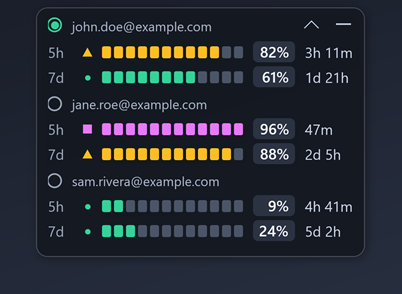
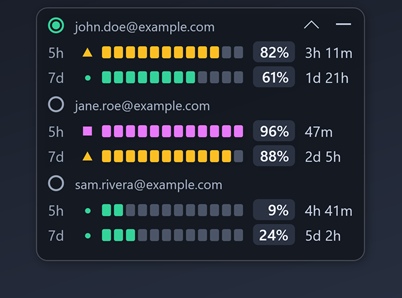
The radio was being clipped, not aliased: give the circle room in its box
The ring kept losing its left-hand side, through a font glyph and then through an
Ellipse, and each "fix" moved the symptom rather than removing it. Measuring the
pixels instead of looking at them: the ink ran from x+1.5 to x+16 where it should
have run x+0 to x+16. Not a shift - a missing slice.

Two causes, stacked. The control sits 0.75 of a physical pixel off the grid (padding,
a negative margin and an 11px line above it), so the circle was drawn three quarters
of a pixel right: one edge faded out, the other doubled. PointToScreen reports that
offset as zero, because it rounds to whole screen pixels, which is why the first
attempt at correcting it changed nothing. It is measured from inside the window now.

Correcting it then pushed the circle a fraction past its own bounds - and the Border
it sits in has a corner radius, so WPF clips the child to it. That clip took the
slice. The circle is now drawn inside a box a pixel larger on every side, so no
correction can ever reach the edge.

Measured, not eyeballed: the mid-line now reads 48 58 3 | 4 58 48 - a mirror - in a
16x16 box. Screenshots re-taken from this build.

diff --git a/src/ClaudeBar/MainWindow.xaml b/src/ClaudeBar/MainWindow.xaml
@@ -74,14 +74,12 @@
                 </Grid.ColumnDefinitions>
 
                 <!-- Radio: filled for the active account; click an empty one to switch.
-                     Two ellipses rather than a font glyph - shapes are anti-aliased, not
-                     hinted, so the ring stays a full circle wherever the pill lands. -->
+                     Drawn on the physical pixel grid by RadioDot - see the comment there for
+                     the two ways this circle previously lost its left-hand side. -->
                 <Border Grid.Column="0" Tag="radio" Style="{StaticResource Tap}"
                         Padding="3,1,6,1" Margin="-4,0,2,0" ToolTip="{Binding RadioTip}">
-                  <Grid Width="12" Height="12" VerticalAlignment="Center">
-                    <Ellipse Stroke="{Binding RadioStroke}" StrokeThickness="1.3"/>
-                    <Ellipse Width="6" Height="6" Fill="{Binding RadioFill}"/>
-                  </Grid>
+                  <local:RadioDot Stroke="{Binding RadioStroke}" Fill="{Binding RadioFill}"
+                                  VerticalAlignment="Center"/>
                 </Border>
 
                 <TextBlock Grid.Column="1" Text="{Binding Email}" Foreground="#A9B4C8"

diff --git a/src/ClaudeBar/RadioDot.cs b/src/ClaudeBar/RadioDot.cs
@@ -1,0 +1,167 @@
+using System.Windows;
+using System.Windows.Media;
+
+namespace ClaudeBar;
+
+/// <summary>
+/// The account radio: a ring, filled when that account is the active one.
+///
+/// Drawn rather than composed, for the same reason <see cref="SegmentBar"/> is. Two earlier
+/// versions both lost the left-hand side of the circle:
+///
+///   - as a Segoe MDL2 glyph, text hinting snapped it onto whole pixels and flattened the
+///     left of the ring into a straight edge;
+///   - as an Ellipse with a Stroke, the ring's left edge came out a single 65%-alpha pixel
+///     while its right edge was a solid one, because the pill's padding and this control's
+///     negative margin put the circle's box on a fractional physical pixel at 125% scaling.
+///     A circle drawn half a pixel off-grid loses one side and doubles the other.
+///
+/// So: the diameter is a whole, even number of physical pixels, and the origin is snapped to
+/// the pixel grid before anything is drawn. Both edges then get identical coverage, which is
+/// what makes it read as a circle at 12 pixels across.
+/// </summary>
+public sealed class RadioDot : FrameworkElement
+{
+    private const double DiameterDip = 12;
+    private const double RingDip = 1.4;
+    private const double DotDip = 6;
+
+    public static readonly DependencyProperty StrokeProperty =
+        DependencyProperty.Register(nameof(Stroke), typeof(Brush), typeof(RadioDot),
+            new FrameworkPropertyMetadata(Brushes.Gray, FrameworkPropertyMetadataOptions.AffectsRender));
+
+    public static readonly DependencyProperty FillProperty =
+        DependencyProperty.Register(nameof(Fill), typeof(Brush), typeof(RadioDot),
+            new FrameworkPropertyMetadata(Brushes.Transparent, FrameworkPropertyMetadataOptions.AffectsRender));
+
+    public Brush Stroke
+    {
+        get => (Brush)GetValue(StrokeProperty);
+        set => SetValue(StrokeProperty, value);
+    }
+
+    public Brush Fill
+    {
+        get => (Brush)GetValue(FillProperty);
+        set => SetValue(FillProperty, value);
+    }
+
+    public RadioDot()
+    {
+        // Both of these are on for the window as a whole, and both are wrong for a circle:
+        // they snap geometry edges onto whole pixels, which on a curve means one side of the
+        // ring is pulled in and the other pushed out. A 12-pixel circle cannot survive that.
+        SnapsToDevicePixels = false;
+        UseLayoutRounding = false;
+    }
+
+    private double Scale
+    {
+        get
+        {
+            var scale = VisualTreeHelper.GetDpi(this).DpiScaleX;
+            return scale > 0 && !double.IsNaN(scale) ? scale : 1.0;
+        }
+    }
+
+    /// <summary>
+    /// A pixel of slack on every side. The circle used to fill its box exactly, so the
+    /// fraction of a pixel it gets nudged by took its left edge outside the element - and
+    /// the Border around it has a corner radius, which makes WPF clip whatever leaves.
+    /// That clip, not the anti-aliasing, is what sliced the ring.
+    /// </summary>
+    private const int SlackPx = 1;
+
+    /// <summary>Diameter in whole physical pixels, kept even so the centre lands on the grid.</summary>
+    private int DiameterPx
+    {
+        get
+        {
+            var px = Math.Max(6, (int)Math.Round(DiameterDip * Scale));
+            return px % 2 == 0 ? px : px + 1;
+        }
+    }
+
+    protected override Size MeasureOverride(Size availableSize)
+    {
+        var side = (DiameterPx + 2 * SlackPx) / Scale;
+        return new Size(side, side);
+    }
+
+    private static double Snap(double value, double block) => Math.Round(value / block) * block;
+
+    /// <summary>
+    /// How far to shift, in this control's own units, to land on a whole physical pixel.
+    /// Works through whatever transform is between here and the window, so it is still right
+    /// when the screenshot scale is on.
+    /// </summary>
+    private (double X, double Y) GridOffset(double scale)
+    {
+        try
+        {
+            if (Window.GetWindow(this) is not { } win) return (0, 0);
+
+            var transform = TransformToAncestor(win);
+            var origin = transform.Transform(new Point(0, 0));
+            var unitX = transform.Transform(new Point(1, 0)).X - origin.X;
+            var unitY = transform.Transform(new Point(0, 1)).Y - origin.Y;
+
+            // The window itself is positioned in whole physical pixels, so "distance from the
+            // window's edge" and "distance from the pixel grid" are the same question.
+            var offsetX = origin.X * scale;
+            var offsetY = origin.Y * scale;
+
+            // Under the screenshot scale, N physical pixels become one pixel of the saved
+            // image, so the grid that matters is N pixels wide. Landing on a whole physical
+            // pixel but a third of a block leaves the shot's ring thin on one side.
+            var block = Demo.Scale >= 1 ? Demo.Scale : 1;
+
+            return (
+                unitX > 0 ? (Snap(offsetX, block) - offsetX) / (unitX * scale) : 0,
+                unitY > 0 ? (Snap(offsetY, block) - offsetY) / (unitY * scale) : 0);
+        }
+        catch
+        {
+            // Not in a window yet, or no transform to it: drawing un-nudged is still a
+            // circle, just a softer one.
+            return (0, 0);
+        }
+    }
+
+    protected override void OnRender(DrawingContext dc)
+    {
+        var scale = Scale;
+        var diameter = DiameterPx;
+        var ring = Math.Max(2, (int)Math.Round(RingDip * scale));
+
+        var dot = Math.Max(2, (int)Math.Round(DotDip * scale));
+        if (dot % 2 != 0) dot++;
+
+        // How far this control's own origin sits from a whole physical pixel, measured from
+        // inside the window - the padding, the negative margin and a 10.5pt line above it
+        // land it on a fraction (0.75 of a pixel, as it happens). A circle drawn three
+        // quarters of a pixel to the right loses its left edge to anti-aliasing and doubles
+        // its right one, which is the whole bug.
+        //
+        // Not PointToScreen: that rounds to whole screen pixels and so always reports the
+        // offset as zero, which is what made this look fixed when it was not.
+        var (nudgeX, nudgeY) = GridOffset(scale);
+
+        var centre = new Point(
+            nudgeX + (SlackPx + diameter / 2.0) / scale,
+            nudgeY + (SlackPx + diameter / 2.0) / scale);
+
+        Diagnostics.Log(() =>
+            $"radio: scale={scale:0.###} ring={diameter}px/{ring}px dot={dot}px " +
+            $"nudge={nudgeX * scale:0.###},{nudgeY * scale:0.###}px");
+
+        // The pen straddles the radius, so the ring's OUTER edge lands on the diameter.
+        var ringRadius = (diameter - ring) / 2.0 / scale;
+        var pen = new Pen(Stroke, ring / scale);
+        pen.Freeze();
+        dc.DrawEllipse(null, pen, centre, ringRadius, ringRadius);
+
+        if (Fill != Brushes.Transparent)
+            dc.DrawEllipse(Fill, null, centre, dot / 2.0 / scale, dot / 2.0 / scale);
+    }
+}
